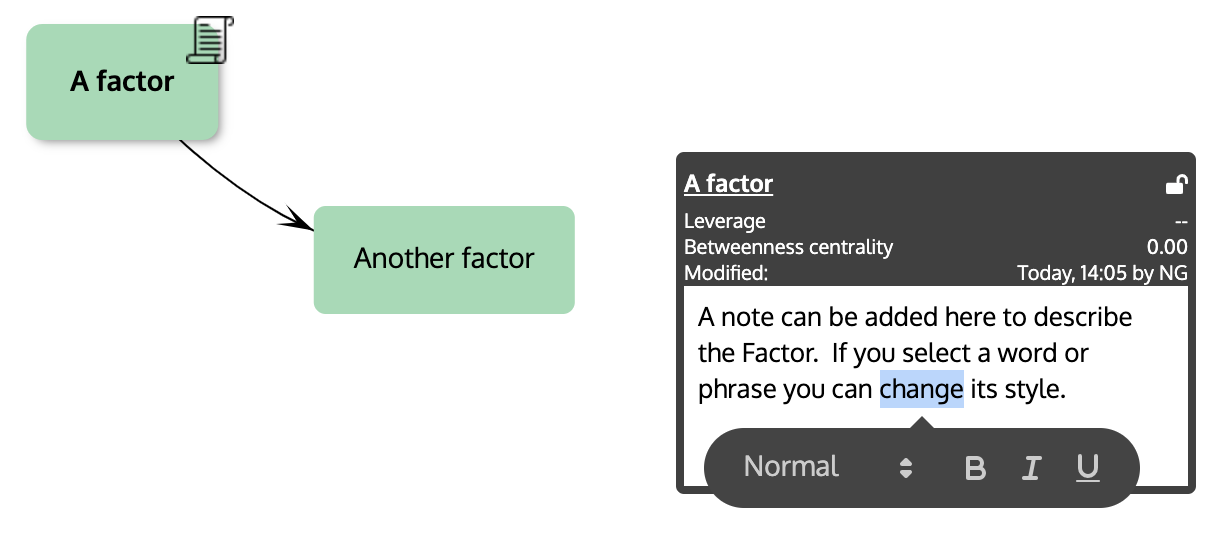
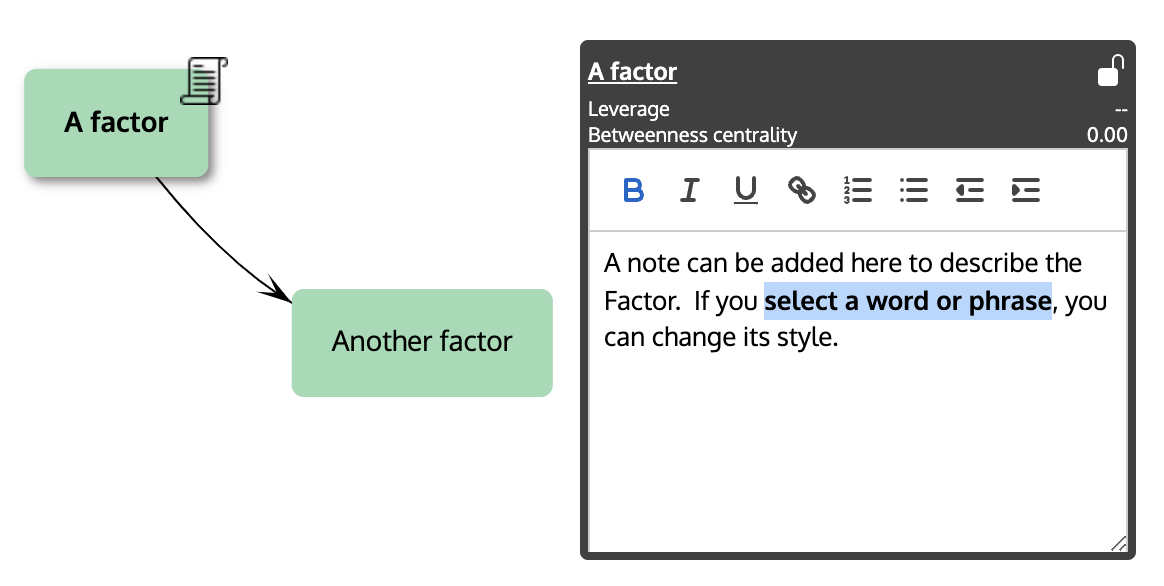
epplaced some out of date images in Help

diff --git a/html/help.html b/html/help.html
@@ -137,15 +137,14 @@
 <img src="/doc/images/start-screen.png" alt="Nav Bar icons" /><figcaption aria-hidden="true">Nav Bar icons</figcaption>
 </figure>
 <p>This introductory tour is only shown the very first time you use PRSM. If you want to view the tour again, click <button onclick="localStorage.setItem('doneIntro', 'false'); return false">here</button>.</p>
-<p>At the top of the screen are a row of buttons. <!-- ![Nav Bar icons](/doc/images/prsm-nav-icons.png)
-<img src="/doc/images/prsm-nav-icons.png" width="400"> --> This what they do, from left to right:</p>
+<p>At the top of the screen are a row of buttons. <!-- ![Nav Bar icons](/doc/images/prsm-nav-icons.png)--> <img src="/doc/images/buttons.png" width="400"></p>
+<p>This what they do, from left to right:</p>
 <ul>
 <li><strong>New factor</strong> (or node). Click on the cross and then click on the blank area below (the ‘network pane’) to create a node for the network. A small dialog box will open for you to type in a label for the factor.</li>
 <li><strong>New link</strong> (or edge). Click on the arrow button and then drag from one factor to another to link them. If you wish, you can have two links between a pair of factors: one for each direction.</li>
 </ul>
-<figure>
-<img src="/doc/images/create-link-nodes.gif" alt="Creating and linking two nodes" /><figcaption aria-hidden="true">Creating and linking two nodes</figcaption>
-</figure>
+<!-- ![Creating and linking two nodes](/doc/images/create-link-nodes.gif) -->
+<p><img src="/doc/images/create-link-nodes.gif" width="400"></p>
 <ul>
 <li><strong>Undo</strong>. Reverses the last action (e.g. if you have just created a new factor, it will be removed).</li>
 <li><strong>Redo</strong>. Redo the last action (e.g. if you have just undone the creation of a factor, this will return the factor to the network).</li>

diff --git a/html/prsm.html b/html/prsm.html
@@ -918,7 +918,7 @@
 					<input class="view-check" type="checkbox" id="view-check" />
 					<label class="table" for="tablecheck">
 						Data view<br /><span class="small"
-							>(experimental - view Factors and Links in a data table)</span
+							>(view Factors and Links in a data table)</span
 						>
 					</label>
 					<input class="table-check" type="checkbox" id="table-check" />

diff --git a/doc/help.md b/doc/help.md
@@ -64,14 +64,16 @@ When the app is started for the first time in your browser, there is an option t
 This introductory tour is only shown the very first time you use PRSM.  If you want to view the tour again, click <button onclick="localStorage.setItem('doneIntro', 'false'); return false">here</button>.
 
 At the top of the screen are a row of buttons.
-<!-- ![Nav Bar icons](/doc/images/prsm-nav-icons.png)
-<img src="/doc/images/prsm-nav-icons.png" width="400"> -->
+<!-- ![Nav Bar icons](/doc/images/prsm-nav-icons.png)-->
+<img src="/doc/images/buttons.png" width="400">
+
 This what they do, from left to right:
 
 * **New factor** (or node).  Click on the cross and then click on the blank area below (the 'network pane') to create a node for the network.  A small dialog box will open for you to type in a label for the factor.
 * **New link** (or edge). Click on the arrow button and then drag from one factor to another to link them. If you wish, you can have two links between a pair of factors: one for each direction.
 
-![Creating and linking two nodes](/doc/images/create-link-nodes.gif)
+<!-- ![Creating and linking two nodes](/doc/images/create-link-nodes.gif) -->
+<img src="/doc/images/create-link-nodes.gif" width="400">
 
 * **Undo**. Reverses the last action (e.g. if you have just created a new factor, it will be removed).
 * **Redo**. Redo the last action (e.g. if you have just undone the creation of a factor, this will return the factor to the network).
